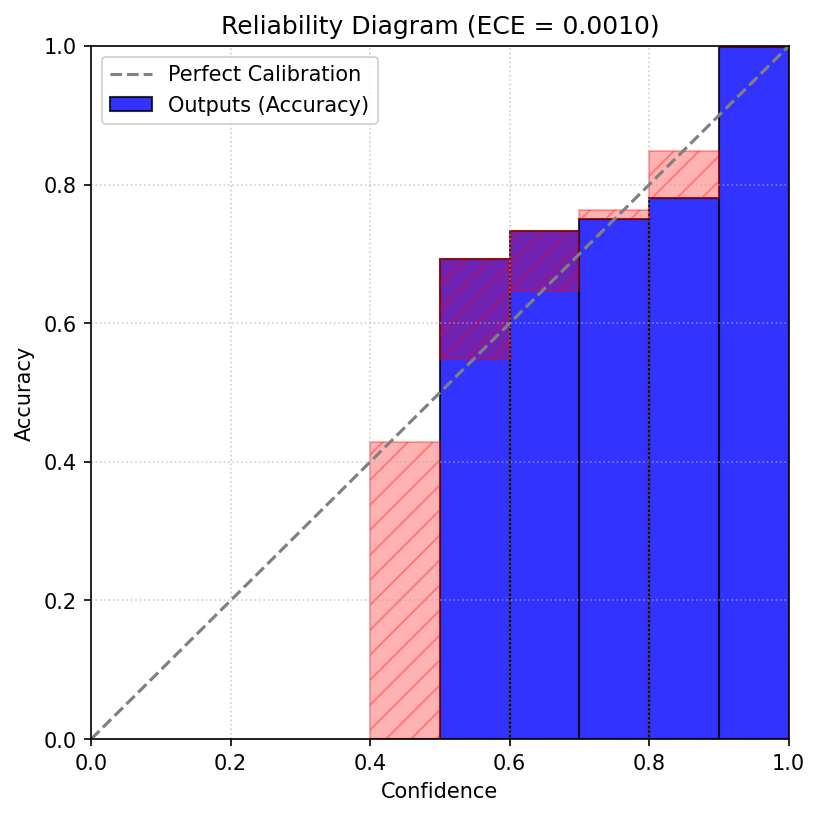
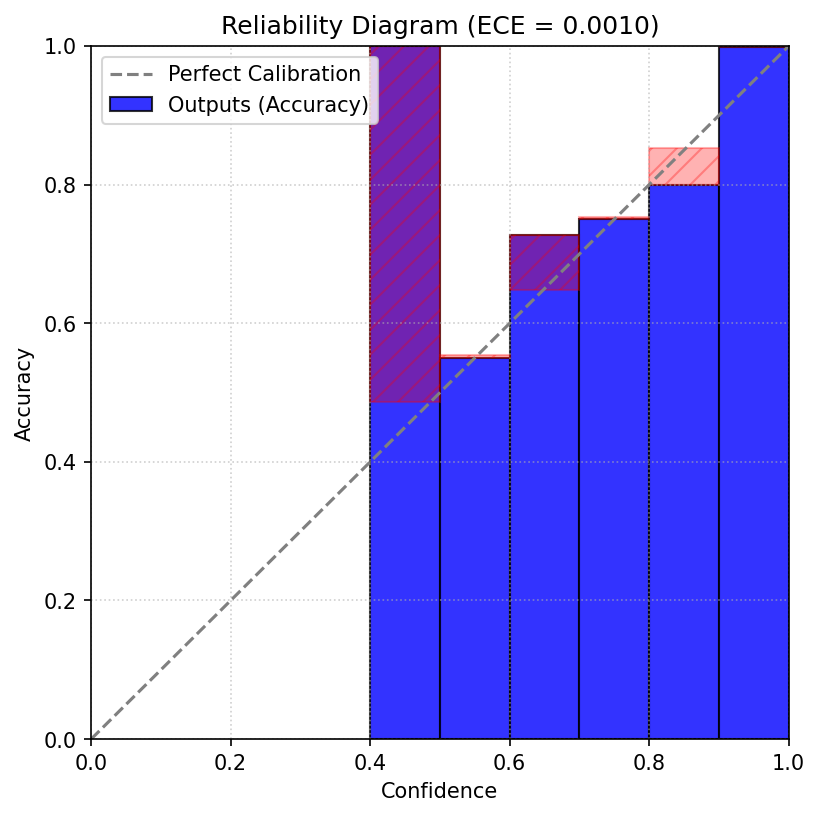
create augment2 func in the mn_data_loader and add 0304,0305 figs.

diff --git a/src/data/mn_data_loader.py b/src/data/mn_data_loader.py
@@ -4,7 +4,9 @@ from torch.utils.data import DataLoader
 from .transforms import AddGaussianNoise
 #Using torch library, we don't have to set complicated settings, like one-hot, faltten(Basicaly, this dont need for CNN)
 
-#This is 
+import random
+
+#This is for setting augmentation in training sequence. 
 def create_mnist_augmentation(noise_level=0.1):
     return transforms.Compose([
         #Geometric augmentations
@@ -26,17 +28,52 @@ def create_mnist_augmentation(noise_level=0.1):
             p=0.3,
             scale=(0.02, 0.1),
             ratio=(0.3, 3.3),
-            value="random" #Fill with black(0) for MNIST
+            value=0 #Fill with black(0) for MNIST
         ),
         #additional noise
         AddGaussianNoise(std=noise_level)
     ])
-    
-    
+
+#This is function for those who want to set several augmentations automatically(randomly).
+class Randomaugment:
+    def __call__(self, img):
+        choice = random.choices(["rotate", "translate", "scale"])
+        magnitude = random.random()
+        if choice =="rotate":
+            Max_angle=30.0 #The default value = 15
+            angle = Max_angle*magnitude*random.choice([-1, 1])
+            return transforms.functional.rotate(img, angle)
+        elif choice == "translate":
+            max_tx = 0.3 #The default value = 0.1
+            max_ty = 0.3
+            tx = max_tx*img.size[0]*random.choice([-1, 1])
+            ty = max_ty*img.size[1]*random.choice([-1, 1])
+            return transforms.functional.affine(img, angle=0, translate=[tx, ty], scale=1.0, shear=0)
+        else:
+            max_scale = 0.4 #The default value = 0.2 
+            scale = 1.0 + (max_scale*magnitude*random.choice([-1, 1]))
+            return transforms.functional.affine(img, angle=0, translate=[0, 0], scale=scale, shear=0)
+
+def create_mnist_augmentation2(noise_level=0.1):
+    return transforms.Compose([
+        Randomaugment(),
+        #transform into tensor
+        transforms.ToTensor(),
+        #Random erasing (cutout) -good for MNIST
+        transforms.RandomErasing(
+            p=0.3,
+            scale=(0.02, 0.1),
+            ratio=(0.3, 3.3),
+            value=0 #Fill with black(0) for MNIST
+        ),
+        #additional noise. After random erasing!!
+        AddGaussianNoise(std=noise_level)
+    ])
+        
 #This is the main body of the data loader.
 def get_mnist_loaders(BATCH_SIZE=64):
     
-    train_transformed = create_mnist_augmentation() #If I want to use a clear image for training, put it into transforms.Compose([transforms.ToTensor()])
+    train_transformed = create_mnist_augmentation2() #If I want to use a clear image for training, put it into transforms.Compose([transforms.ToTensor()])
     test_transformed = transforms.Compose([transforms.ToTensor()]) #test data should be original for evaluating model's spec.
 
     train_dataset = datasets.MNIST(

diff --git a/exefile/mn_cnn_analyze_hessian_from_pt.py b/exefile/mn_cnn_analyze_hessian_from_pt.py
@@ -21,7 +21,7 @@ def main():
     学習済みモデルをロードし、ヘッセ行列の固有値スペクトルを計算・プロットする。
     """
     # --- 設定 ---
-    MODEL_PATH = 'models/mnist_cnn_lrs_erasevalue0_changed_260209.pt'
+    MODEL_PATH = 'models\mnist_cnn_lrs_create_mn_aug2_260305.pt'
     BATCH_SIZE = 64 #loss function計算に用いるデータのバッチサイズ. criterionに渡すときに使う.
     DEVICE = 'cuda' if torch.cuda.is_available() else 'cpu'
     print(f"Using device: {DEVICE}")

diff --git a/exefile/mn_cnn_analyze_ECE.py b/exefile/mn_cnn_analyze_ECE.py
@@ -114,7 +114,7 @@ def main():
     print(f"Using device: {device}")
     
     model = MNISTcnn_ovlr()
-    model_path = "models/mnist_cnn_lrs_erasevalue0_changed_260209.pt"
+    model_path = "models\mnist_cnn_lrs_create_mn_aug2_260305.pt"
     model.load_state_dict(torch.load(model_path, map_location=device))
     model.to(device)
     print(f"Model loaded from {model_path}")
